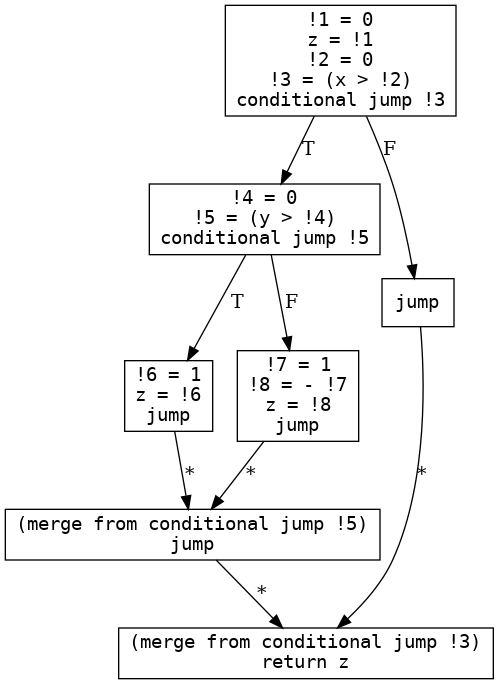
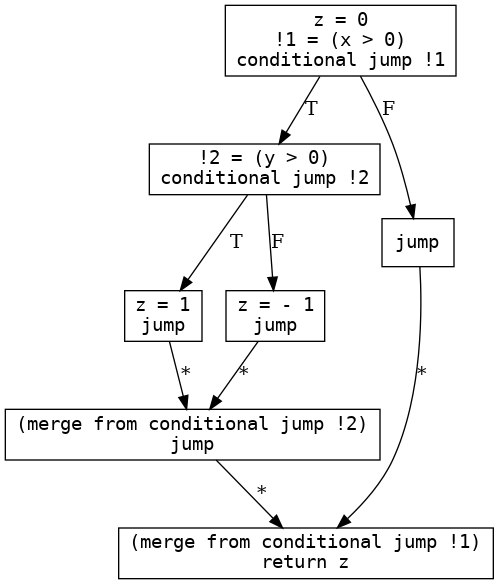
Deploying to gh-pages from  @ b9f651c7d97c1b9e0afe56c2c495d8cdbdc917fa 🚀

Changed region(s): [[0.0, 0.0, 0.992, 1.0], [0.2705, 0.339, 0.3006, 0.3699]]

diff --git a/README.md b/README.md
@@ -54,50 +54,36 @@ def foo(C, D, S, N):
 ### Linear code with loops
 ```python
 def foo(C, D, S, N):
-    !1!1 = 10000
-    min_sum!1 = !1!1
-    !2!1 = 1
-    !3!1 = - !2!1
-    min_index!1 = !3!1
+    min_sum!1 = 10000
+    min_index!1 = - 1
     min_sum!2 = Φ(min_sum!1, min_sum!4)
     min_index!2 = Φ(min_index!1, min_index!4)
-    !4!1 = Φ(!4!0, !4!2)
     sum!1 = Φ(sum!0, sum!3)
-    !5!1 = Φ(!5!0, !5!2)
-    !6!1 = Φ(!6!0, !6!2)
-    !7!1 = Φ(!7!0, !7!2)
+    !1!1 = Φ(!1!0, !1!2)
+    !2!1 = Φ(!2!0, !2!2)
     d!1 = Φ(d!0, d!2)
-    !8!1 = Φ(!8!0, !8!2)
     p!1 = Φ(p!0, p!2)
-    !9!1 = Φ(!9!0, !9!2)
-    !10!1 = Φ(!10!0, !10!2)
+    !3!1 = Φ(!3!0, !3!2)
     for i in range(0, N!0):
-        !4!2 = 0
-        sum!2 = !4!2
+        sum!2 = 0
         sum!3 = Φ(sum!2, sum!4)
-        !5!2 = Φ(!5!1, !5!3)
-        !6!2 = Φ(!6!1, !6!3)
-        !7!2 = Φ(!7!1, !7!3)
+        !1!2 = Φ(!1!1, !1!3)
+        !2!2 = Φ(!2!1, !2!3)
         d!2 = Φ(d!1, d!3)
-        !8!2 = Φ(!8!1, !8!3)
         p!2 = Φ(p!1, p!3)
-        !9!2 = Φ(!9!1, !9!3)
         for j in range(0, D!0):
-            !5!3 = S[((i * D!0) + j)]
-            !6!3 = C[j]
-            !7!3 = (!5!3 - !6!3)
-            d!3 = !7!3
-            !8!3 = (d!3 * d!3)
-            p!3 = !8!3
-            !9!3 = (sum!3 + p!3)
-            sum!4 = !9!3
-        !10!2 = (sum!3 < min_sum!2)
+            !1!3 = S[((i * D!0) + j)]
+            !2!3 = C[j]
+            d!3 = (!1!3 - !2!3)
+            p!3 = (d!3 * d!3)
+            sum!4 = (sum!3 + p!3)
+        !3!2 = (sum!3 < min_sum!2)
         min_sum!3 = sum!3
         min_index!3 = i
-        min_sum!4 = MUX(!10!2, min_sum!3, min_sum!2)
-        min_index!4 = MUX(!10!2, min_index!3, min_index!2)
-    !11!1 = (min_sum!2, min_index!2)
-    return !11!1
+        min_sum!4 = MUX(!3!2, min_sum!3, min_sum!2)
+        min_index!4 = MUX(!3!2, min_index!3, min_index!2)
+    !4!1 = (min_sum!2, min_index!2)
+    return !4!1
 ```
 ## `biometric_fast`
 ### Input
@@ -201,72 +187,50 @@ def foo(D, N, C, C_sqr_sum, two_C, S, S_sqr_sum):
 ### Linear code with loops
 ```python
 def foo(D, N, C, C_sqr_sum, two_C, S, S_sqr_sum):
-    !1!1 = 0
-    !2!1 = [!1!1]
-    !3!1 = (!2!1 * D!0)
-    differences!1 = !3!1
-    !4!1 = Φ(!4!0, !4!2)
-    !5!1 = Φ(!5!0, !5!2)
+    !1!1 = [0]
+    differences!1 = (!1!1 * D!0)
+    !2!1 = Φ(!2!0, !2!2)
     a_sqr_plus_b_sqr!1 = Φ(a_sqr_plus_b_sqr!0, a_sqr_plus_b_sqr!2)
-    !6!1 = Φ(!6!0, !6!2)
     two_a_b!1 = Φ(two_a_b!0, two_a_b!3)
-    !7!1 = Φ(!7!0, !7!2)
-    !8!1 = Φ(!8!0, !8!2)
-    !9!1 = Φ(!9!0, !9!2)
+    !3!1 = Φ(!3!0, !3!2)
+    !4!1 = Φ(!4!0, !4!2)
     tmp!1 = Φ(tmp!0, tmp!2)
-    !10!1 = Φ(!10!0, !10!2)
-    !11!1 = Φ(!11!0, !11!2)
     this_diff!1 = Φ(this_diff!0, this_diff!2)
     differences[i] = Φ(differences[i], differences[i])
-    !12!1 = Φ(!12!0, !12!2)
     min_diff!1 = Φ(min_diff!0, min_diff!3)
-    !13!1 = Φ(!13!0, !13!2)
     min_index!1 = Φ(min_index!0, min_index!3)
-    !14!1 = Φ(!14!0, !14!2)
-    !15!1 = Φ(!15!0, !15!2)
-    !16!1 = Φ(!16!0, !16!2)
+    !5!1 = Φ(!5!0, !5!2)
+    !6!1 = Φ(!6!0, !6!2)
     for i in range(0, N!0):
-        !4!2 = S_sqr_sum[i]
-        !5!2 = (!4!2 + C_sqr_sum!0)
-        a_sqr_plus_b_sqr!2 = !5!2
-        !6!2 = 0
-        two_a_b!2 = !6!2
+        !2!2 = S_sqr_sum[i]
+        a_sqr_plus_b_sqr!2 = (!2!2 + C_sqr_sum!0)
+        two_a_b!2 = 0
         two_a_b!3 = Φ(two_a_b!2, two_a_b!4)
-        !7!2 = Φ(!7!1, !7!3)
-        !8!2 = Φ(!8!1, !8!3)
-        !9!2 = Φ(!9!1, !9!3)
+        !3!2 = Φ(!3!1, !3!3)
+        !4!2 = Φ(!4!1, !4!3)
         tmp!2 = Φ(tmp!1, tmp!3)
-        !10!2 = Φ(!10!1, !10!3)
         for j in range(0, D!0):
-            !7!3 = S[((i * D!0) + j)]
-            !8!3 = two_C[j]
-            !9!3 = (!7!3 * !8!3)
-            tmp!3 = !9!3
-            !10!3 = (two_a_b!3 + tmp!3)
-            two_a_b!4 = !10!3
-        !11!2 = (a_sqr_plus_b_sqr!2 - two_a_b!3)
-        this_diff!2 = !11!2
+            !3!3 = S[((i * D!0) + j)]
+            !4!3 = two_C[j]
+            tmp!3 = (!3!3 * !4!3)
+            two_a_b!4 = (two_a_b!3 + tmp!3)
+        this_diff!2 = (a_sqr_plus_b_sqr!2 - two_a_b!3)
         differences[i] = this_diff!2
-        !12!2 = differences[0]
-        min_diff!2 = !12!2
-        !13!2 = 0
-        min_index!2 = !13!2
+        min_diff!2 = differences[0]
+        min_index!2 = 0
         min_diff!3 = Φ(min_diff!2, min_diff!5)
         min_index!3 = Φ(min_index!2, min_index!5)
-        !14!2 = Φ(!14!1, !14!3)
-        !15!2 = Φ(!15!1, !15!3)
-        !16!2 = Φ(!16!1, !16!4)
+        !5!2 = Φ(!5!1, !5!3)
+        !6!2 = Φ(!6!1, !6!3)
         for k in range(0, N!0):
-            !14!3 = differences[k]
-            !15!3 = (!14!3 < min_diff!3)
-            !16!3 = differences[k]
-            min_diff!4 = !16!3
+            !5!3 = differences[k]
+            !6!3 = (!5!3 < min_diff!3)
+            min_diff!4 = differences[k]
             min_index!4 = k
-            min_diff!5 = MUX(!15!3, min_diff!4, min_diff!3)
-            min_index!5 = MUX(!15!3, min_index!4, min_index!3)
-            !16!4 = MUX(!15!3, !16!3, !16!2)
-    !17!1 = (min_diff!1, min_index!1)
-    return !17!1
+            min_diff!5 = MUX(!6!3, min_diff!4, min_diff!3)
+            min_index!5 = MUX(!6!3, min_index!4, min_index!3)
+    !7!1 = (min_diff!1, min_index!1)
+    return !7!1
 ```
 ## `chapterfour_figure_12`
 ### Input
@@ -301,27 +265,14 @@ def foo(x, y):
 ### Linear code with loops
 ```python
 def foo(x, y):
-    !1!1 = 0
-    z!1 = !1!1
-    !2!1 = 0
-    !3!1 = (x!0 > !2!1)
-    !4!1 = 0
-    !5!1 = (y!0 > !4!1)
-    !7!1 = 1
-    !8!1 = - !7!1
-    z!3 = !8!1
-    !6!1 = 1
-    z!2 = !6!1
-    z!4 = MUX(!5!1, z!2, z!3)
-    !6!2 = MUX(!5!1, !6!1, !6!0)
-    !7!2 = MUX(!5!1, !7!0, !7!1)
-    !8!2 = MUX(!5!1, !8!0, !8!1)
-    z!5 = MUX(!3!1, z!1, z!4)
-    !4!2 = MUX(!3!1, !4!0, !4!1)
-    !5!2 = MUX(!3!1, !5!0, !5!1)
-    !6!3 = MUX(!3!1, !6!0, !6!2)
-    !7!3 = MUX(!3!1, !7!0, !7!2)
-    !8!3 = MUX(!3!1, !8!0, !8!2)
+    z!1 = 0
+    !1!1 = (x!0 > 0)
+    !2!1 = (y!0 > 0)
+    z!3 = - 1
+    z!2 = 1
+    z!4 = MUX(!2!1, z!2, z!3)
+    z!5 = MUX(!1!1, z!1, z!4)
+    !2!2 = MUX(!1!1, !2!0, !2!1)
     return z!5
 ```
 ## `histogram`
@@ -383,41 +334,32 @@ def foo(A, B, N, num_bins):
 ### Linear code with loops
 ```python
 def foo(A, B, N, num_bins):
-    !1!1 = []
-    result!1 = !1!1
+    result!1 = []
     result!2 = Φ(result!1, result!3)
+    !1!1 = Φ(!1!0, !1!2)
+    for i in range(0, num_bins!0):
+        !1!2 = [0]
+        result!3 = (result!2 + !1!2)
     !2!1 = Φ(!2!0, !2!2)
     !3!1 = Φ(!3!0, !3!2)
     !4!1 = Φ(!4!0, !4!2)
-    for i in range(0, num_bins!0):
-        !2!2 = 0
-        !3!2 = [!2!2]
-        !4!2 = (result!2 + !3!2)
-        result!3 = !4!2
     !5!1 = Φ(!5!0, !5!2)
-    !6!1 = Φ(!6!0, !6!2)
-    !7!1 = Φ(!7!0, !7!2)
-    !8!1 = Φ(!8!0, !8!2)
-    !9!1 = Φ(!9!0, !9!2)
     result[i] = Φ(result[i], result[i])
     for i in range(0, num_bins!0):
-        !5!2 = Φ(!5!1, !5!3)
-        !6!2 = Φ(!6!1, !6!3)
-        !7!2 = Φ(!7!1, !7!4)
-        !8!2 = Φ(!8!1, !8!4)
-        !9!2 = Φ(!9!1, !9!4)
+        !2!2 = Φ(!2!1, !2!3)
+        !3!2 = Φ(!3!1, !3!3)
+        !4!2 = Φ(!4!1, !4!4)
+        !5!2 = Φ(!5!1, !5!4)
         result[i] = Φ(result[i], result[i])
         for j in range(0, N!0):
-            !5!3 = A[j]
-            !6!3 = (!5!3 == i)
-            !7!3 = result[i]
-            !8!3 = B[j]
-            !9!3 = (!7!3 + !8!3)
-            result[i] = !9!3
-            !7!4 = MUX(!6!3, !7!3, !7!2)
-            !8!4 = MUX(!6!3, !8!3, !8!2)
-            !9!4 = MUX(!6!3, !9!3, !9!2)
-            result[i] = MUX(!6!3, result[i], result[i])
+            !2!3 = A[j]
+            !3!3 = (!2!3 == i)
+            !4!3 = result[i]
+            !5!3 = B[j]
+            result[i] = (!4!3 + !5!3)
+            !4!4 = MUX(!3!3, !4!3, !4!2)
+            !5!4 = MUX(!3!3, !5!3, !5!2)
+            result[i] = MUX(!3!3, result[i], result[i])
     return result!2
 ```
 ## `inner_product`
@@ -456,21 +398,16 @@ def foo(A, B, N):
 ### Linear code with loops
 ```python
 def foo(A, B, N):
-    !1!1 = 0
-    sum!1 = !1!1
+    sum!1 = 0
     sum!2 = Φ(sum!1, sum!3)
+    !1!1 = Φ(!1!0, !1!2)
     !2!1 = Φ(!2!0, !2!2)
-    !3!1 = Φ(!3!0, !3!2)
-    !4!1 = Φ(!4!0, !4!2)
     temp!1 = Φ(temp!0, temp!2)
-    !5!1 = Φ(!5!0, !5!2)
     for i in range(0, N!0):
-        !2!2 = A[i]
-        !3!2 = B[i]
-        !4!2 = (!2!2 * !3!2)
-        temp!2 = !4!2
-        !5!2 = (sum!2 + temp!2)
-        sum!3 = !5!2
+        !1!2 = A[i]
+        !2!2 = B[i]
+        temp!2 = (!1!2 * !2!2)
+        sum!3 = (sum!2 + temp!2)
     return sum!2
 ```
 ## `psi`
@@ -517,34 +454,29 @@ def foo(A, SA, B, SB):
 ### Linear code with loops
 ```python
 def foo(A, SA, B, SB):
-    !1!1 = []
-    result!1 = !1!1
+    result!1 = []
     result!2 = Φ(result!1, result!3)
+    !1!1 = Φ(!1!0, !1!2)
     !2!1 = Φ(!2!0, !2!2)
     !3!1 = Φ(!3!0, !3!2)
     !4!1 = Φ(!4!0, !4!2)
     !5!1 = Φ(!5!0, !5!2)
-    !6!1 = Φ(!6!0, !6!2)
-    !7!1 = Φ(!7!0, !7!2)
     for i in range(0, SA!0):
         result!3 = Φ(result!2, result!5)
+        !1!2 = Φ(!1!1, !1!3)
         !2!2 = Φ(!2!1, !2!3)
         !3!2 = Φ(!3!1, !3!3)
-        !4!2 = Φ(!4!1, !4!3)
+        !4!2 = Φ(!4!1, !4!4)
         !5!2 = Φ(!5!1, !5!4)
-        !6!2 = Φ(!6!1, !6!4)
-        !7!2 = Φ(!7!1, !7!4)
         for j in range(0, SB!0):
-            !2!3 = A[i]
-            !3!3 = B[j]
-            !4!3 = (!2!3 == !3!3)
-            !5!3 = A[i]
-            !6!3 = [!5!3]
-            !7!3 = (result!3 + !6!3)
-            result!4 = !7!3
-            result!5 = MUX(!4!3, result!4, result!3)
-            !5!4 = MUX(!4!3, !5!3, !5!2)
-            !6!4 = MUX(!4!3, !6!3, !6!2)
-            !7!4 = MUX(!4!3, !7!3, !7!2)
+            !1!3 = A[i]
+            !2!3 = B[j]
+            !3!3 = (!1!3 == !2!3)
+            !4!3 = A[i]
+            !5!3 = [!4!3]
+            result!4 = (result!3 + !5!3)
+            result!5 = MUX(!3!3, result!4, result!3)
+            !4!4 = MUX(!3!3, !4!3, !4!2)
+            !5!4 = MUX(!3!3, !5!3, !5!2)
     return result!2
 ```
